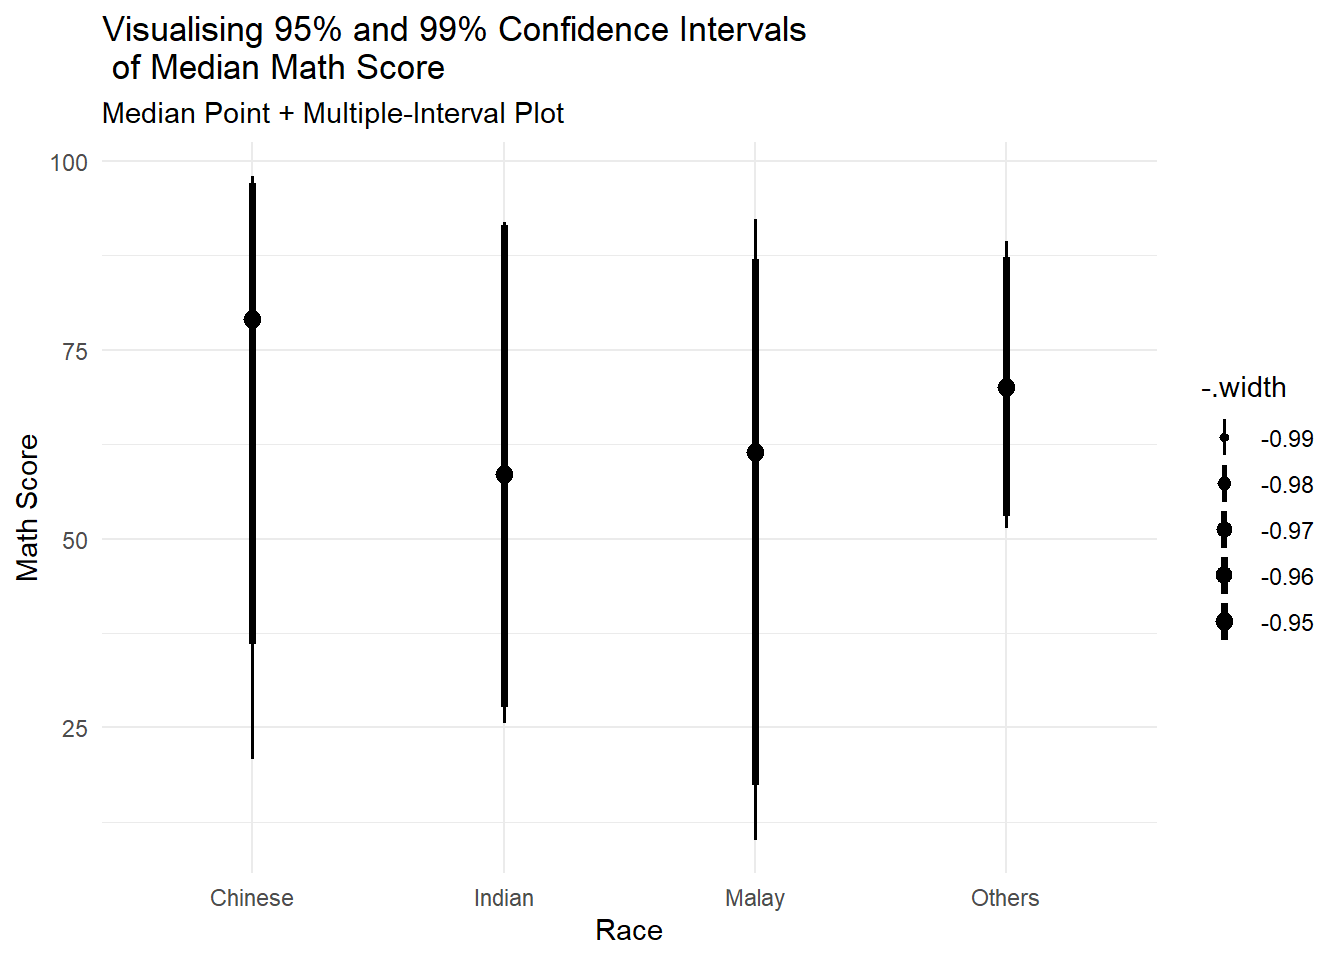
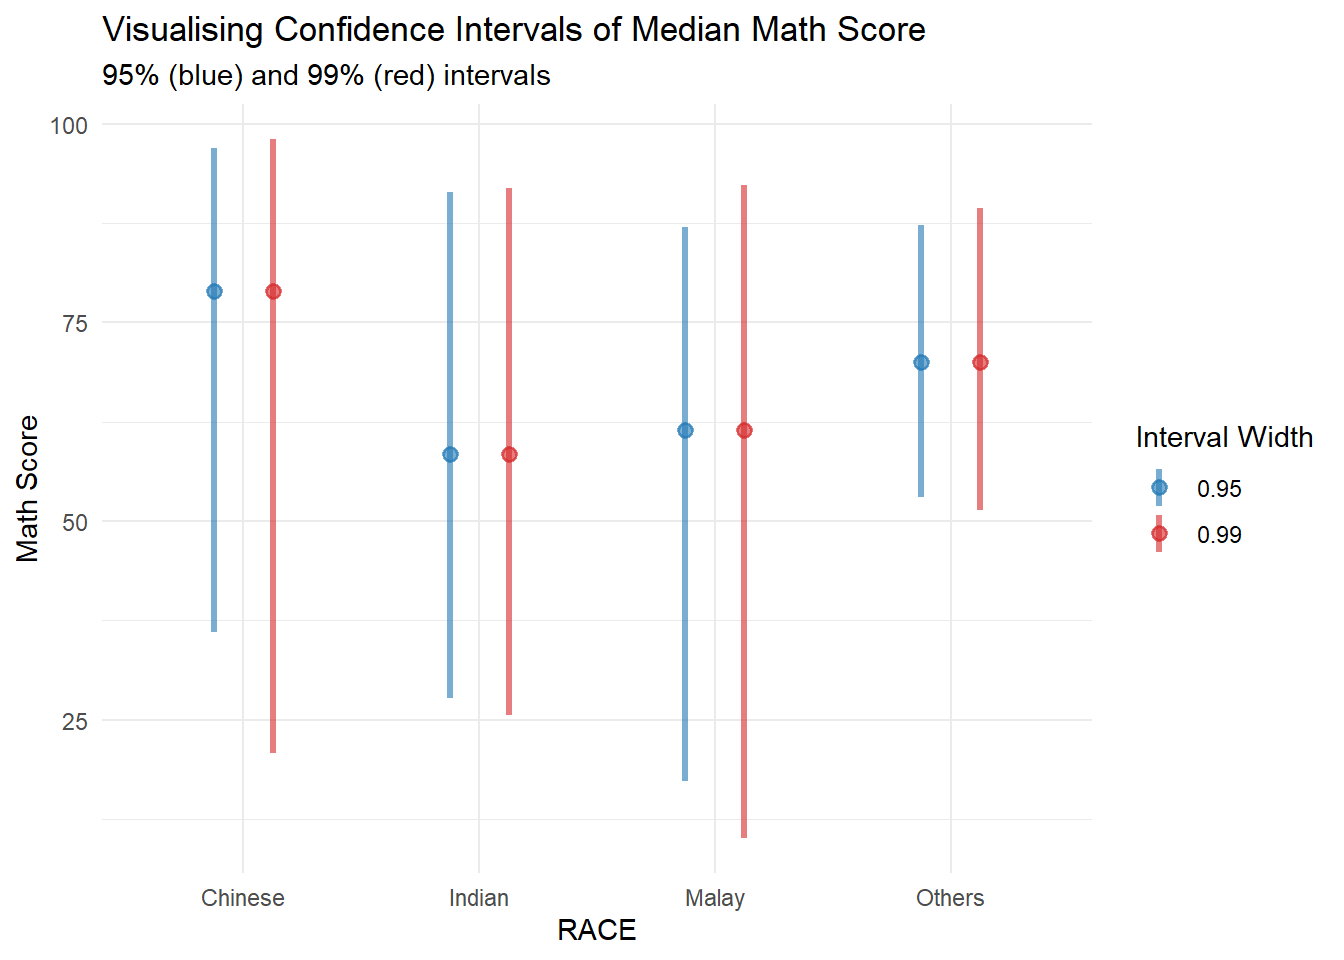
comments for hands on ex 4

diff --git a/_site/Hands-on_Ex/Hands-on_Ex04/Hands-on_Ex04_Part3.html b/_site/Hands-on_Ex/Hands-on_Ex04/Hands-on_Ex04_Part3.html
@@ -198,6 +198,26 @@ pre > code.sourceCode > span > a:first-child::before { text-decoration: underlin
     <a class="dropdown-item" href="../../Hands-on_Ex/Hands-on_Ex05/Hands-on_Ex05.html">
  <span class="dropdown-text">Hands-on Exercise 5</span></a>
   </li>  
+        <li>
+    <a class="dropdown-item" href="../../Hands-on_Ex/Hands-on_Ex06/Hands-on_Ex06.html">
+ <span class="dropdown-text">Hands-on Exercise 6</span></a>
+  </li>  
+        <li>
+    <a class="dropdown-item" href="../../Hands-on_Ex/Hands-on_Ex07/Hands-on_Ex07.html">
+ <span class="dropdown-text">Hands-on Exercise 7</span></a>
+  </li>  
+        <li>
+    <a class="dropdown-item" href="../../Hands-on_Ex/Hands-on_Ex08/Hands-on_Ex08.html">
+ <span class="dropdown-text">Hands-on Exercise 8</span></a>
+  </li>  
+        <li>
+    <a class="dropdown-item" href="../../Hands-on_Ex/Hands-on_Ex09/Hands-on_Ex09.html">
+ <span class="dropdown-text">Hands-on Exercise 9</span></a>
+  </li>  
+        <li>
+    <a class="dropdown-item" href="../../Hands-on_Ex/Hands-on_Ex10/Hands-on_Ex10.html">
+ <span class="dropdown-text">Hands-on Exercise 10</span></a>
+  </li>  
     </ul>
   </li>
   <li class="nav-item dropdown ">
@@ -217,6 +237,34 @@ pre > code.sourceCode > span > a:first-child::before { text-decoration: underlin
     <a class="dropdown-item" href="../../In-Class _Ex/In-Class_Ex03/In-Class_Ex03.html">
  <span class="dropdown-text">In-Class Exercise 3</span></a>
   </li>  
+        <li>
+    <a class="dropdown-item" href="../../In-Class _Ex/In-Class_Ex04/In-Class_Ex04.html">
+ <span class="dropdown-text">In-Class Exercise 4</span></a>
+  </li>  
+        <li>
+    <a class="dropdown-item" href="../../In-Class _Ex/In-Class_Ex05/In-Class_Ex05.html">
+ <span class="dropdown-text">In-Class Exercise 5</span></a>
+  </li>  
+        <li>
+    <a class="dropdown-item" href="../../In-Class _Ex/In-Class_Ex06/In-Class_Ex06.html">
+ <span class="dropdown-text">In-Class Exercise 6</span></a>
+  </li>  
+        <li>
+    <a class="dropdown-item" href="../../In-Class _Ex/In-Class_Ex07/In-Class_Ex07.html">
+ <span class="dropdown-text">In-Class Exercise 7</span></a>
+  </li>  
+        <li>
+    <a class="dropdown-item" href="../../In-Class _Ex/In-Class_Ex08/In-Class_Ex08.html">
+ <span class="dropdown-text">In-Class Exercise 8</span></a>
+  </li>  
+        <li>
+    <a class="dropdown-item" href="../../In-Class _Ex/In-Class_Ex09/In-Class_Ex09.html">
+ <span class="dropdown-text">In-Class Exercise 9</span></a>
+  </li>  
+        <li>
+    <a class="dropdown-item" href="../../In-Class _Ex/In-Class_Ex10/In-Class_Ex10.html">
+ <span class="dropdown-text">In-Class Exercise 10</span></a>
+  </li>  
     </ul>
   </li>
   <li class="nav-item dropdown ">
@@ -226,7 +274,11 @@ pre > code.sourceCode > span > a:first-child::before { text-decoration: underlin
     <ul class="dropdown-menu" aria-labelledby="nav-menu-take-home-exercise">    
         <li>
     <a class="dropdown-item" href="../../Take-Home_Ex/Take-Home_Ex01/Take-Home_Ex01.html">
- <span class="dropdown-text">Take-Home Exercise 1</span></a>
+ <span class="dropdown-text">Take-Home Exercise 1 Part 1</span></a>
+  </li>  
+        <li>
+    <a class="dropdown-item" href="../../Take-Home_Ex/Take-Home_Ex01/Take-Home_Ex01_Part2.html">
+ <span class="dropdown-text">Take-Home Exercise 1 Part 2</span></a>
   </li>  
     </ul>
   </li>
@@ -312,7 +364,7 @@ pre > code.sourceCode > span > a:first-child::before { text-decoration: underlin
     <div>
     <div class="quarto-title-meta-heading">Modified</div>
     <div class="quarto-title-meta-contents">
-      <p class="date-modified">May 9, 2025</p>
+      <p class="date-modified">May 10, 2025</p>
     </div>
   </div>
     
@@ -572,12 +624,12 @@ Things to learn from the code chunk above
 <div class="container-fluid crosstalk-bscols">
 <div class="row">
 <div class="col-xs-4">
-<div class="plotly html-widget html-fill-item" id="htmlwidget-24244a71a3b75494c194" style="width:100%;height:400px;"></div>
-<script type="application/json" data-for="htmlwidget-24244a71a3b75494c194">{"x":{"data":[{"x":[1,3,4,2],"y":[76.507772020725383,60.666666666666664,57.444444444444443,69.666666666666671],"text":"","key":["1","2","3","4"],"type":"scatter","mode":"lines","opacity":0.90000000000000002,"line":{"color":"transparent"},"error_y":{"array":[2.9214818033282057,18.165794029639137,5.2713960499886028,9.7819093228264933],"arrayminus":[2.9214818033282057,18.165794029639137,5.2713960499886028,9.7819093228265004],"type":"data","width":21.333333333333353,"symmetric":false,"color":"rgba(0,0,0,1)"},"set":"SharedData43e6350d","showlegend":false,"xaxis":"x","yaxis":"y","hoverinfo":"text","_isNestedKey":false,"frame":null},{"x":[1,3,4,2],"y":[76.507772020725383,60.666666666666664,57.444444444444443,69.666666666666671],"text":["Race: Chinese <br>N: 193 <br>Avg. Scores: 76.51 <br>95% CI:[ 73.59 , 79.43 ]","Race: Indian <br>N: 12 <br>Avg. Scores: 60.67 <br>95% CI:[ 42.5 , 78.83 ]","Race: Malay <br>N: 108 <br>Avg. Scores: 57.44 <br>95% CI:[ 52.17 , 62.72 ]","Race: Others <br>N: 9 <br>Avg. Scores: 69.67 <br>95% CI:[ 59.88 , 79.45 ]"],"key":["1","2","3","4"],"type":"scatter","mode":"markers","marker":{"autocolorscale":false,"color":"rgba(255,0,0,1)","opacity":1,"size":5.6692913385826778,"symbol":"circle","line":{"width":1.8897637795275593,"color":"rgba(255,0,0,1)"}},"hoveron":"points","set":"SharedData43e6350d","showlegend":false,"xaxis":"x","yaxis":"y","hoverinfo":"text","_isNestedKey":false,"frame":null}],"layout":{"margin":{"t":43.762557077625573,"r":7.3059360730593621,"b":50.845818773908846,"l":37.260273972602747},"font":{"color":"rgba(0,0,0,1)","family":"","size":14.611872146118724},"title":{"text":"99% Confidence interval of average /<br>maths scores by race","font":{"color":"rgba(0,0,0,1)","family":"","size":17.534246575342465},"x":0,"xref":"paper"},"xaxis":{"domain":[0,1],"automargin":true,"type":"linear","autorange":false,"range":[0.40000000000000002,4.5999999999999996],"tickmode":"array","ticktext":["Chinese","Others","Indian","Malay"],"tickvals":[1,2,3,4],"categoryorder":"array","categoryarray":["Chinese","Others","Indian","Malay"],"nticks":null,"ticks":"","tickcolor":null,"ticklen":3.6529680365296811,"tickwidth":0,"showticklabels":true,"tickfont":{"color":"rgba(77,77,77,1)","family":"","size":11.68949771689498},"tickangle":-45,"showline":false,"linecolor":null,"linewidth":0,"showgrid":true,"gridcolor":"rgba(235,235,235,1)","gridwidth":0.66417600664176002,"zeroline":false,"anchor":"y","title":{"text":"Race","font":{"color":"rgba(0,0,0,1)","family":"","size":14.611872146118724}},"hoverformat":".2f"},"yaxis":{"domain":[0,1],"automargin":true,"type":"linear","autorange":false,"range":[40.653487469404247,81.295961157116452],"tickmode":"array","ticktext":["50","60","70","80"],"tickvals":[50,60,70,80],"categoryorder":"array","categoryarray":["50","60","70","80"],"nticks":null,"ticks":"","tickcolor":null,"ticklen":3.6529680365296811,"tickwidth":0,"showticklabels":true,"tickfont":{"color":"rgba(77,77,77,1)","family":"","size":11.68949771689498},"tickangle":-0,"showline":false,"linecolor":null,"linewidth":0,"showgrid":true,"gridcolor":"rgba(235,235,235,1)","gridwidth":0.66417600664176002,"zeroline":false,"anchor":"x","title":{"text":"Average Scores","font":{"color":"rgba(0,0,0,1)","family":"","size":14.611872146118724}},"hoverformat":".2f"},"shapes":[{"type":"rect","fillcolor":null,"line":{"color":null,"width":0,"linetype":[]},"yref":"paper","xref":"paper","x0":0,"x1":1,"y0":0,"y1":1}],"showlegend":false,"legend":{"bgcolor":null,"bordercolor":null,"borderwidth":0,"font":{"color":"rgba(0,0,0,1)","family":"","size":11.68949771689498}},"hovermode":"closest","barmode":"relative","dragmode":"zoom"},"config":{"doubleClick":"reset","modeBarButtonsToAdd":["hoverclosest","hovercompare"],"showSendToCloud":false},"source":"A","attrs":{"3d283e9199f":{"x":{},"ymin":{},"ymax":{},"type":"scatter"},"3d2818292f79":{"x":{},"y":{},"text":{}}},"cur_data":"3d283e9199f","visdat":{"3d283e9199f":["function (y) ","x"],"3d2818292f79":["function (y) ","x"]},"highlight":{"on":"plotly_click","persistent":false,"dynamic":false,"selectize":false,"opacityDim":0.20000000000000001,"selected":{"opacity":1},"debounce":0,"ctGroups":["SharedData43e6350d"]},"shinyEvents":["plotly_hover","plotly_click","plotly_selected","plotly_relayout","plotly_brushed","plotly_brushing","plotly_clickannotation","plotly_doubleclick","plotly_deselect","plotly_afterplot","plotly_sunburstclick"],"base_url":"https://plot.ly"},"evals":[],"jsHooks":[]}</script>
+<div class="plotly html-widget html-fill-item" id="htmlwidget-7cf67ff21b43d922dc75" style="width:100%;height:400px;"></div>
+<script type="application/json" data-for="htmlwidget-7cf67ff21b43d922dc75">{"x":{"data":[{"x":[1,3,4,2],"y":[76.507772020725383,60.666666666666664,57.444444444444443,69.666666666666671],"text":"","key":["1","2","3","4"],"type":"scatter","mode":"lines","opacity":0.90000000000000002,"line":{"color":"transparent"},"error_y":{"array":[2.9214818033282057,18.165794029639137,5.2713960499886028,9.7819093228264933],"arrayminus":[2.9214818033282057,18.165794029639137,5.2713960499886028,9.7819093228265004],"type":"data","width":21.333333333333353,"symmetric":false,"color":"rgba(0,0,0,1)"},"set":"SharedDataea33ce3f","showlegend":false,"xaxis":"x","yaxis":"y","hoverinfo":"text","_isNestedKey":false,"frame":null},{"x":[1,3,4,2],"y":[76.507772020725383,60.666666666666664,57.444444444444443,69.666666666666671],"text":["Race: Chinese <br>N: 193 <br>Avg. Scores: 76.51 <br>95% CI:[ 73.59 , 79.43 ]","Race: Indian <br>N: 12 <br>Avg. Scores: 60.67 <br>95% CI:[ 42.5 , 78.83 ]","Race: Malay <br>N: 108 <br>Avg. Scores: 57.44 <br>95% CI:[ 52.17 , 62.72 ]","Race: Others <br>N: 9 <br>Avg. Scores: 69.67 <br>95% CI:[ 59.88 , 79.45 ]"],"key":["1","2","3","4"],"type":"scatter","mode":"markers","marker":{"autocolorscale":false,"color":"rgba(255,0,0,1)","opacity":1,"size":5.6692913385826778,"symbol":"circle","line":{"width":1.8897637795275593,"color":"rgba(255,0,0,1)"}},"hoveron":"points","set":"SharedDataea33ce3f","showlegend":false,"xaxis":"x","yaxis":"y","hoverinfo":"text","_isNestedKey":false,"frame":null}],"layout":{"margin":{"t":43.762557077625573,"r":7.3059360730593621,"b":50.845818773908846,"l":37.260273972602747},"font":{"color":"rgba(0,0,0,1)","family":"","size":14.611872146118724},"title":{"text":"99% Confidence interval of average /<br>maths scores by race","font":{"color":"rgba(0,0,0,1)","family":"","size":17.534246575342465},"x":0,"xref":"paper"},"xaxis":{"domain":[0,1],"automargin":true,"type":"linear","autorange":false,"range":[0.40000000000000002,4.5999999999999996],"tickmode":"array","ticktext":["Chinese","Others","Indian","Malay"],"tickvals":[1,2,3,4],"categoryorder":"array","categoryarray":["Chinese","Others","Indian","Malay"],"nticks":null,"ticks":"","tickcolor":null,"ticklen":3.6529680365296811,"tickwidth":0,"showticklabels":true,"tickfont":{"color":"rgba(77,77,77,1)","family":"","size":11.68949771689498},"tickangle":-45,"showline":false,"linecolor":null,"linewidth":0,"showgrid":true,"gridcolor":"rgba(235,235,235,1)","gridwidth":0.66417600664176002,"zeroline":false,"anchor":"y","title":{"text":"Race","font":{"color":"rgba(0,0,0,1)","family":"","size":14.611872146118724}},"hoverformat":".2f"},"yaxis":{"domain":[0,1],"automargin":true,"type":"linear","autorange":false,"range":[40.653487469404247,81.295961157116452],"tickmode":"array","ticktext":["50","60","70","80"],"tickvals":[50,60,70,80],"categoryorder":"array","categoryarray":["50","60","70","80"],"nticks":null,"ticks":"","tickcolor":null,"ticklen":3.6529680365296811,"tickwidth":0,"showticklabels":true,"tickfont":{"color":"rgba(77,77,77,1)","family":"","size":11.68949771689498},"tickangle":-0,"showline":false,"linecolor":null,"linewidth":0,"showgrid":true,"gridcolor":"rgba(235,235,235,1)","gridwidth":0.66417600664176002,"zeroline":false,"anchor":"x","title":{"text":"Average Scores","font":{"color":"rgba(0,0,0,1)","family":"","size":14.611872146118724}},"hoverformat":".2f"},"shapes":[{"type":"rect","fillcolor":null,"line":{"color":null,"width":0,"linetype":[]},"yref":"paper","xref":"paper","x0":0,"x1":1,"y0":0,"y1":1}],"showlegend":false,"legend":{"bgcolor":null,"bordercolor":null,"borderwidth":0,"font":{"color":"rgba(0,0,0,1)","family":"","size":11.68949771689498}},"hovermode":"closest","barmode":"relative","dragmode":"zoom"},"config":{"doubleClick":"reset","modeBarButtonsToAdd":["hoverclosest","hovercompare"],"showSendToCloud":false},"source":"A","attrs":{"230c1c517565":{"x":{},"ymin":{},"ymax":{},"type":"scatter"},"230c2d2e7174":{"x":{},"y":{},"text":{}}},"cur_data":"230c1c517565","visdat":{"230c1c517565":["function (y) ","x"],"230c2d2e7174":["function (y) ","x"]},"highlight":{"on":"plotly_click","persistent":false,"dynamic":false,"selectize":false,"opacityDim":0.20000000000000001,"selected":{"opacity":1},"debounce":0,"ctGroups":["SharedDataea33ce3f"]},"shinyEvents":["plotly_hover","plotly_click","plotly_selected","plotly_relayout","plotly_brushed","plotly_brushing","plotly_clickannotation","plotly_doubleclick","plotly_deselect","plotly_afterplot","plotly_sunburstclick"],"base_url":"https://plot.ly"},"evals":[],"jsHooks":[]}</script>
 </div>
 <div class="col-xs-8">
-<div id="htmlwidget-1b8dc2528eea1d058f33" style="width:100%;height:auto;" class="datatables html-widget"></div>
-<script type="application/json" data-for="htmlwidget-1b8dc2528eea1d058f33">{"x":{"crosstalkOptions":{"key":["1","2","3","4"],"group":"SharedData43e6350d"},"filter":"none","vertical":false,"data":[["Chinese","Indian","Malay","Others"],[193,12,108,9],[76.50777202072538,60.66666666666666,57.44444444444444,69.66666666666667],[15.69040284264306,23.35237318418266,21.13478478068458,10.72380529476361],[1.132357288111705,7.041005437844626,2.043176763561474,3.791437722025775]],"container":"<table class=\"compact\">\n  <thead>\n    <tr>\n      <th> <\/th>\n      <th>No. of pupils<\/th>\n      <th>Avg Scores<\/th>\n      <th>Std Dev<\/th>\n      <th>Std Error<\/th>\n    <\/tr>\n  <\/thead>\n<\/table>","options":{"pageLength":10,"scrollX":true,"columnDefs":[{"targets":2,"render":"function(data, type, row, meta) {\n    return type !== 'display' ? data : DTWidget.formatRound(data, 2, 3, \",\", \".\", null);\n  }"},{"targets":3,"render":"function(data, type, row, meta) {\n    return type !== 'display' ? data : DTWidget.formatRound(data, 2, 3, \",\", \".\", null);\n  }"},{"targets":4,"render":"function(data, type, row, meta) {\n    return type !== 'display' ? data : DTWidget.formatRound(data, 2, 3, \",\", \".\", null);\n  }"},{"className":"dt-right","targets":[1,2,3,4]},{"orderable":false,"targets":0},{"name":"RACE","targets":0},{"name":"n","targets":1},{"name":"mean","targets":2},{"name":"sd","targets":3},{"name":"se","targets":4}],"order":[],"autoWidth":false,"orderClasses":false},"selection":{"mode":"multiple","selected":null,"target":"row","selectable":null}},"evals":["options.columnDefs.0.render","options.columnDefs.1.render","options.columnDefs.2.render"],"jsHooks":[]}</script>
+<div id="htmlwidget-51500827cdc85df496bb" style="width:100%;height:auto;" class="datatables html-widget"></div>
+<script type="application/json" data-for="htmlwidget-51500827cdc85df496bb">{"x":{"crosstalkOptions":{"key":["1","2","3","4"],"group":"SharedDataea33ce3f"},"filter":"none","vertical":false,"data":[["Chinese","Indian","Malay","Others"],[193,12,108,9],[76.50777202072538,60.66666666666666,57.44444444444444,69.66666666666667],[15.69040284264306,23.35237318418266,21.13478478068458,10.72380529476361],[1.132357288111705,7.041005437844626,2.043176763561474,3.791437722025775]],"container":"<table class=\"compact\">\n  <thead>\n    <tr>\n      <th> <\/th>\n      <th>No. of pupils<\/th>\n      <th>Avg Scores<\/th>\n      <th>Std Dev<\/th>\n      <th>Std Error<\/th>\n    <\/tr>\n  <\/thead>\n<\/table>","options":{"pageLength":10,"scrollX":true,"columnDefs":[{"targets":2,"render":"function(data, type, row, meta) {\n    return type !== 'display' ? data : DTWidget.formatRound(data, 2, 3, \",\", \".\", null);\n  }"},{"targets":3,"render":"function(data, type, row, meta) {\n    return type !== 'display' ? data : DTWidget.formatRound(data, 2, 3, \",\", \".\", null);\n  }"},{"targets":4,"render":"function(data, type, row, meta) {\n    return type !== 'display' ? data : DTWidget.formatRound(data, 2, 3, \",\", \".\", null);\n  }"},{"className":"dt-right","targets":[1,2,3,4]},{"orderable":false,"targets":0},{"name":"RACE","targets":0},{"name":"n","targets":1},{"name":"mean","targets":2},{"name":"sd","targets":3},{"name":"se","targets":4}],"order":[],"autoWidth":false,"orderClasses":false},"selection":{"mode":"multiple","selected":null,"target":"row","selectable":null}},"evals":["options.columnDefs.0.render","options.columnDefs.1.render","options.columnDefs.2.render"],"jsHooks":[]}</script>
 </div>
 </div>
 </div>
@@ -688,21 +740,31 @@ Things to learn from the code chunk above
 <h2 class="anchored" data-anchor-id="visualizing-the-uncertainty-of-point-estimates-ggdist-methods-1">7.4.2 Visualizing the uncertainty of point estimates: ggdist methods</h2>
 <p>Makeover the previous plot on the previous slide by showing 95% and 99% confidence intervals</p>
 <div class="cell">
-<div class="sourceCode cell-code" id="cb10"><pre class="sourceCode r code-with-copy"><code class="sourceCode r"><span id="cb10-1"><a href="#cb10-1" aria-hidden="true" tabindex="-1"></a>exam <span class="sc">%&gt;%</span></span>
-<span id="cb10-2"><a href="#cb10-2" aria-hidden="true" tabindex="-1"></a>  <span class="fu">ggplot</span>(<span class="fu">aes</span>(<span class="at">x =</span> RACE, <span class="at">y =</span> MATHS)) <span class="sc">+</span></span>
-<span id="cb10-3"><a href="#cb10-3" aria-hidden="true" tabindex="-1"></a>  <span class="fu">stat_pointinterval</span>(</span>
-<span id="cb10-4"><a href="#cb10-4" aria-hidden="true" tabindex="-1"></a>    <span class="at">.width =</span> <span class="fu">c</span>(<span class="fl">0.95</span>, <span class="fl">0.99</span>),</span>
-<span id="cb10-5"><a href="#cb10-5" aria-hidden="true" tabindex="-1"></a>    <span class="at">.point =</span> median,</span>
-<span id="cb10-6"><a href="#cb10-6" aria-hidden="true" tabindex="-1"></a>    <span class="at">.interval =</span> qi,</span>
-<span id="cb10-7"><a href="#cb10-7" aria-hidden="true" tabindex="-1"></a>    <span class="at">show.legend =</span> <span class="cn">TRUE</span></span>
-<span id="cb10-8"><a href="#cb10-8" aria-hidden="true" tabindex="-1"></a>  ) <span class="sc">+</span></span>
-<span id="cb10-9"><a href="#cb10-9" aria-hidden="true" tabindex="-1"></a>  <span class="fu">labs</span>(</span>
-<span id="cb10-10"><a href="#cb10-10" aria-hidden="true" tabindex="-1"></a>    <span class="at">title =</span> <span class="st">"Visualising 95% and 99% Confidence Intervals</span><span class="sc">\n</span><span class="st"> of Median Math Score"</span>,</span>
-<span id="cb10-11"><a href="#cb10-11" aria-hidden="true" tabindex="-1"></a>    <span class="at">subtitle =</span> <span class="st">"Median Point + Multiple-Interval Plot"</span>,</span>
-<span id="cb10-12"><a href="#cb10-12" aria-hidden="true" tabindex="-1"></a>    <span class="at">x =</span> <span class="st">"Race"</span>,</span>
-<span id="cb10-13"><a href="#cb10-13" aria-hidden="true" tabindex="-1"></a>    <span class="at">y =</span> <span class="st">"Math Score"</span></span>
-<span id="cb10-14"><a href="#cb10-14" aria-hidden="true" tabindex="-1"></a>  ) <span class="sc">+</span></span>
-<span id="cb10-15"><a href="#cb10-15" aria-hidden="true" tabindex="-1"></a>  <span class="fu">theme_minimal</span>()</span></code><button title="Copy to Clipboard" class="code-copy-button"><i class="bi"></i></button></pre></div>
+<div class="sourceCode cell-code" id="cb10"><pre class="sourceCode r code-with-copy"><code class="sourceCode r"><span id="cb10-1"><a href="#cb10-1" aria-hidden="true" tabindex="-1"></a><span class="fu">library</span>(ggdist)</span>
+<span id="cb10-2"><a href="#cb10-2" aria-hidden="true" tabindex="-1"></a><span class="fu">library</span>(tidyverse)</span>
+<span id="cb10-3"><a href="#cb10-3" aria-hidden="true" tabindex="-1"></a></span>
+<span id="cb10-4"><a href="#cb10-4" aria-hidden="true" tabindex="-1"></a><span class="co"># Precompute median and multiple intervals (95% and 99%)</span></span>
+<span id="cb10-5"><a href="#cb10-5" aria-hidden="true" tabindex="-1"></a>exam_summary <span class="ot">&lt;-</span> exam <span class="sc">%&gt;%</span></span>
+<span id="cb10-6"><a href="#cb10-6" aria-hidden="true" tabindex="-1"></a>  <span class="fu">group_by</span>(RACE) <span class="sc">%&gt;%</span></span>
+<span id="cb10-7"><a href="#cb10-7" aria-hidden="true" tabindex="-1"></a>  <span class="fu">median_qi</span>(MATHS, <span class="at">.width =</span> <span class="fu">c</span>(<span class="fl">0.95</span>, <span class="fl">0.99</span>))</span>
+<span id="cb10-8"><a href="#cb10-8" aria-hidden="true" tabindex="-1"></a></span>
+<span id="cb10-9"><a href="#cb10-9" aria-hidden="true" tabindex="-1"></a><span class="co"># Plot with transparent intervals</span></span>
+<span id="cb10-10"><a href="#cb10-10" aria-hidden="true" tabindex="-1"></a><span class="fu">ggplot</span>(exam_summary, <span class="fu">aes</span>(<span class="at">x =</span> RACE, <span class="at">y =</span> MATHS, <span class="at">ymin =</span> .lower, <span class="at">ymax =</span> .upper)) <span class="sc">+</span></span>
+<span id="cb10-11"><a href="#cb10-11" aria-hidden="true" tabindex="-1"></a>  <span class="fu">geom_pointrange</span>(<span class="fu">aes</span>(<span class="at">color =</span> <span class="fu">factor</span>(.width)), </span>
+<span id="cb10-12"><a href="#cb10-12" aria-hidden="true" tabindex="-1"></a>                  <span class="at">position =</span> <span class="fu">position_dodge</span>(<span class="at">width =</span> <span class="fl">0.5</span>),</span>
+<span id="cb10-13"><a href="#cb10-13" aria-hidden="true" tabindex="-1"></a>                  <span class="at">linewidth =</span> <span class="fl">1.2</span>,</span>
+<span id="cb10-14"><a href="#cb10-14" aria-hidden="true" tabindex="-1"></a>                  <span class="at">alpha =</span> <span class="fl">0.6</span>) <span class="sc">+</span></span>
+<span id="cb10-15"><a href="#cb10-15" aria-hidden="true" tabindex="-1"></a>  <span class="fu">scale_color_manual</span>(</span>
+<span id="cb10-16"><a href="#cb10-16" aria-hidden="true" tabindex="-1"></a>    <span class="at">values =</span> <span class="fu">c</span>(<span class="st">"0.95"</span> <span class="ot">=</span> <span class="st">"#1f77b4"</span>,  <span class="co"># Blue</span></span>
+<span id="cb10-17"><a href="#cb10-17" aria-hidden="true" tabindex="-1"></a>               <span class="st">"0.99"</span> <span class="ot">=</span> <span class="st">"#d62728"</span>)  <span class="co"># Red</span></span>
+<span id="cb10-18"><a href="#cb10-18" aria-hidden="true" tabindex="-1"></a>  ) <span class="sc">+</span></span>
+<span id="cb10-19"><a href="#cb10-19" aria-hidden="true" tabindex="-1"></a>  <span class="fu">labs</span>(</span>
+<span id="cb10-20"><a href="#cb10-20" aria-hidden="true" tabindex="-1"></a>    <span class="at">title =</span> <span class="st">"Visualising Confidence Intervals of Median Math Score"</span>,</span>
+<span id="cb10-21"><a href="#cb10-21" aria-hidden="true" tabindex="-1"></a>    <span class="at">subtitle =</span> <span class="st">"95% (blue) and 99% (red) intervals"</span>,</span>
+<span id="cb10-22"><a href="#cb10-22" aria-hidden="true" tabindex="-1"></a>    <span class="at">color =</span> <span class="st">"Interval Width"</span>,</span>
+<span id="cb10-23"><a href="#cb10-23" aria-hidden="true" tabindex="-1"></a>    <span class="at">y =</span> <span class="st">"Math Score"</span></span>
+<span id="cb10-24"><a href="#cb10-24" aria-hidden="true" tabindex="-1"></a>  ) <span class="sc">+</span></span>
+<span id="cb10-25"><a href="#cb10-25" aria-hidden="true" tabindex="-1"></a>  <span class="fu">theme_minimal</span>()</span></code><button title="Copy to Clipboard" class="code-copy-button"><i class="bi"></i></button></pre></div>
 <div class="cell-output-display">
 <div>
 <figure class="figure">
@@ -777,6 +839,10 @@ Things to learn from the code chunk above
 </figure>
 </div>
 </div>
+<div class="sourceCode cell-code" id="cb14"><pre class="sourceCode r code-with-copy"><code class="sourceCode r"><span id="cb14-1"><a href="#cb14-1" aria-hidden="true" tabindex="-1"></a><span class="co"># Horizontal line summarize group level means or medians for variable maths</span></span>
+<span id="cb14-2"><a href="#cb14-2" aria-hidden="true" tabindex="-1"></a><span class="co"># Speed of orange moving bar shows the certainty of the data</span></span>
+<span id="cb14-3"><a href="#cb14-3" aria-hidden="true" tabindex="-1"></a><span class="co"># If it is moving slowly, means that it is certain of the data and if it is moving fast, means that it is uncertain of the data</span></span>
+<span id="cb14-4"><a href="#cb14-4" aria-hidden="true" tabindex="-1"></a><span class="co"># Does not mean more data then it will be more certain</span></span></code><button title="Copy to Clipboard" class="code-copy-button"><i class="bi"></i></button></pre></div>
 </div>
 
 
